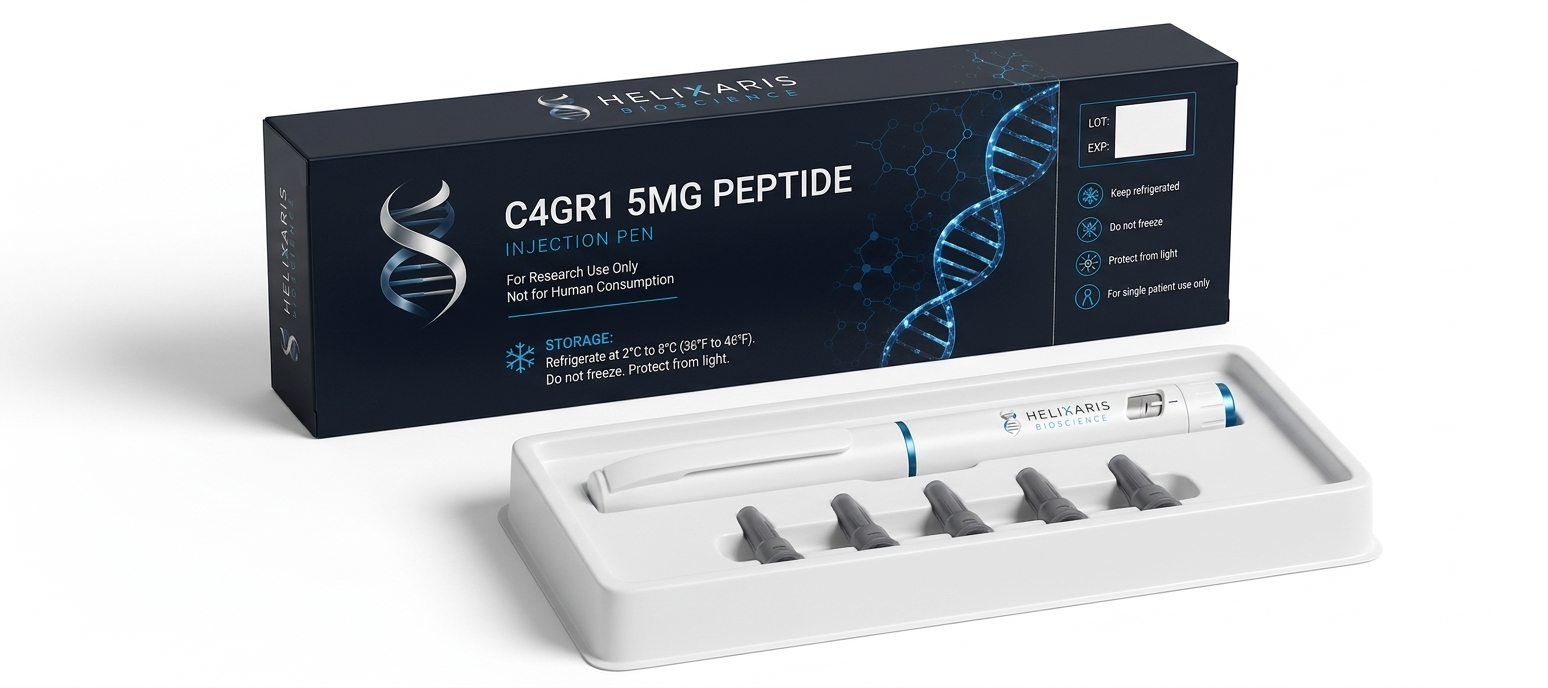
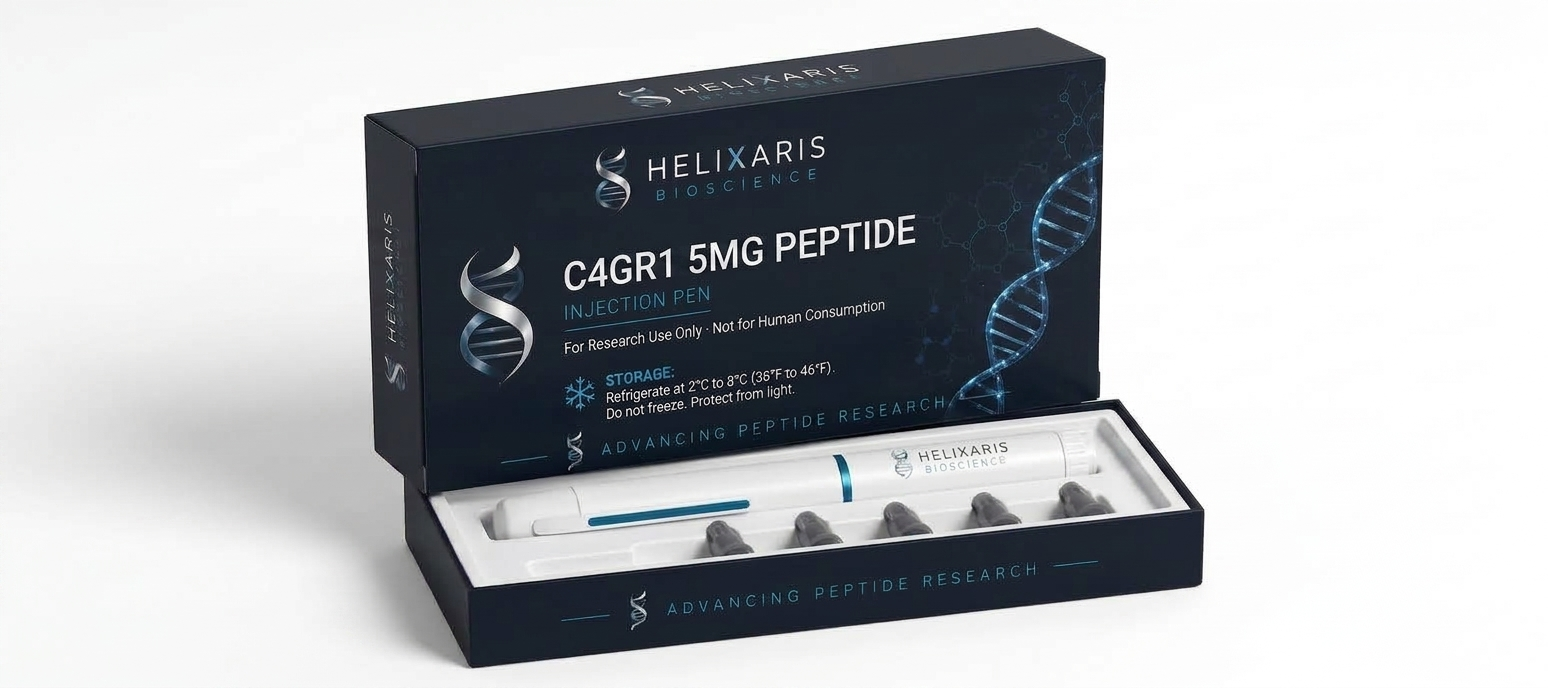
All three now match the KLOW standard precisely: - **GLOW 70MG PEPTIDE INJECTION PEN** — closed box + opened tray with pen and needles, matching KLOW layout - **T1RZ3P4T1D3 PEPTIDE INJECTION PEN** — identical layout, correct compound name - **GHK-CU 100MG** — now the clean vial style (no more hologr
Every one of the 9 regenerated pens follows the same closed-box + opened-tray composition as KLOW.

## Sync workflow

**1. Here → "Save to GitHub"**

**2. In Helixaris chat:**

> "Sync from GitHub, then run `cd /app/backend && python init_helixaris.py` — the image paths haven't changed but a re-run is safe."

Actually you **don't even need to re-run init_helixaris.py** — the DB rows already point at these image paths and the new files just replace the old ones on disk. As soon as the GitHub sync lands + the frontend restarts, users will see the new artwork. But re-running is harmless if the Helixaris agent does it anyway.

**3. Come back with confirmation** — I'll pull a fresh screenshot of `/pens` and `/vials` on the Helixaris preview to verify everything's tight and uniform.

diff --git a/backend/generate_helixaris_pens.py b/backend/generate_helixaris_pens.py
@@ -12,7 +12,7 @@ from emergentintegrations.llm.chat import LlmChat, UserMessage, ImageContent
 
 load_dotenv()
 
-REF = Path('/app/backend/uploads/helixaris_penbox_ref.png')
+REF = Path('/app/backend/uploads/helixaris_penbox_std.png')
 OUT_DIR = Path('/app/frontend/public/brands/helixaris/products')
 OUT_DIR.mkdir(parents=True, exist_ok=True)
 
@@ -35,36 +35,34 @@ def build_prompt(title: str) -> str:
     return (
         f'CRITICAL — READ FIRST:\n'
         f'The compound-name title on the pen box MUST read exactly "{title} PEPTIDE" '
-        f'(followed by "INJECTION PEN" on a second line). DO NOT use "TRIZEPATIDE" or '
-        f'any other name from the reference. The reference is only for STYLE.\n\n'
-        'Using the attached reference image as the exact style, layout and branding, '
-        'create a new Helixaris Bioscience pharmaceutical injection-pen product '
-        'photograph.\n\n'
-        'MATCH EXACTLY:\n'
-        '- Same 3/4 angle, same lighting, same shadow, same white studio background.\n'
-        '- Same dark-navy rectangular product box with subtle blue DNA-helix illustration '
-        'on the right side and a small "advancing peptide research" footer inside a slim '
-        'blue line.\n'
-        '- Same silver-metallic "HELIXARIS" wordmark with light-blue "BIOSCIENCE" '
-        'underneath — appears at the top-centre of the lid AND on the vertical left side '
-        'panel of the box.\n'
-        '- Same silver DNA-helix icon to the left of the wordmark on the front face.\n'
-        '- Same white plastic tray inside the opened box below the closed box, containing '
-        'a white cylindrical injection pen with a slim blue accent ring near the dose '
-        'window (no gold accents — this is Helixaris, silver + blue only). "HELIXARIS '
-        'BIOSCIENCE" small wordmark printed on the pen body.\n'
-        '- Same five identical dark-grey needle-cap tips arranged in a row inside the '
-        'tray under the pen.\n'
-        '- Same side info panel with LOT/EXP box and four blue icons: Keep refrigerated, '
-        'Do not freeze, Protect from light, For single patient use only.\n'
-        '- Same "For Research Use Only · Not for Human Consumption" copy under the title.\n'
-        '- Same "STORAGE: Refrigerate at 2°C to 8°C (36°F to 46°F). Do not freeze. Protect '
-        'from light." storage paragraph.\n'
-        '- Same fonts, sizes, weights, positions and kerning for every element.\n\n'
-        'THE ONLY DIFFERENCE:\n'
-        f'- Replace the compound-name title (currently reads "TRIZEPATIDE PEPTIDE") with '
-        f'"{title} PEPTIDE" in the same white bold typeface, same size and position, '
-        f'with "INJECTION PEN" unchanged on the second line in light-blue small caps.\n\n'
+        f'on line 1 and "INJECTION PEN" on line 2. DO NOT use "KLOW 80MG" or any other '
+        f'name from the reference. The reference is only for STYLE / LAYOUT.\n\n'
+        'Using the attached reference image as the exact style, layout, composition '
+        'and branding, create a new Helixaris Bioscience injection-pen product photograph.\n\n'
+        'MATCH EXACTLY (do not deviate from the reference layout):\n'
+        '- Same shot composition: a CLOSED dark-navy pen-box shown at a slight 3/4 angle, '
+        'AND an OPEN pen-box tray in front of/below it, containing the pen and 5 needle caps.\n'
+        '- Same white studio background with soft natural shadow.\n'
+        '- Same silver DNA-helix icon + "HELIXARIS" wordmark (silver) with "BIOSCIENCE" '
+        '(light blue) at the TOP-CENTRE of the closed box.\n'
+        '- Same large blue glowing DNA strand rendering on the RIGHT side of the closed box.\n'
+        '- Same silver DNA-helix illustration on the LEFT side of the closed box.\n'
+        '- Same "For Research Use Only · Not for Human Consumption" subtitle in one line '
+        'below the compound name.\n'
+        '- Same slim divider line, then "STORAGE:" label in light blue with snowflake icon.\n'
+        '- Same storage paragraph: "Refrigerate at 2°C to 8°C (36°F to 46°F). Do not freeze. '
+        'Protect from light."\n'
+        '- Same "ADVANCING PEPTIDE RESEARCH" tagline near the bottom of the closed box.\n'
+        '- Same vertical HELIXARIS BIOSCIENCE side label on the box left edge.\n'
+        '- Same white injection pen inside the tray with silver + light-blue accent ring '
+        '(NO gold accents) and small HELIXARIS BIOSCIENCE wordmark on the pen body.\n'
+        '- Same 5 identical dark-grey needle-cap tips arranged in a row inside the tray.\n'
+        '- Same "ADVANCING PEPTIDE RESEARCH" small caps at bottom edge of the tray.\n'
+        '- Same fonts, weights, kerning, sizes and positions for every element.\n\n'
+        f'THE ONLY DIFFERENCE:\n'
+        f'- Replace the compound-name title ("KLOW 80MG PEPTIDE") with "{title} PEPTIDE" '
+        f'in the same large white bold typeface. Keep "INJECTION PEN" unchanged on line 2 '
+        'in light-blue small caps.\n\n'
         'Do NOT add or remove any other elements. Output a single high-resolution '
         'photorealistic product photograph.'
     )
